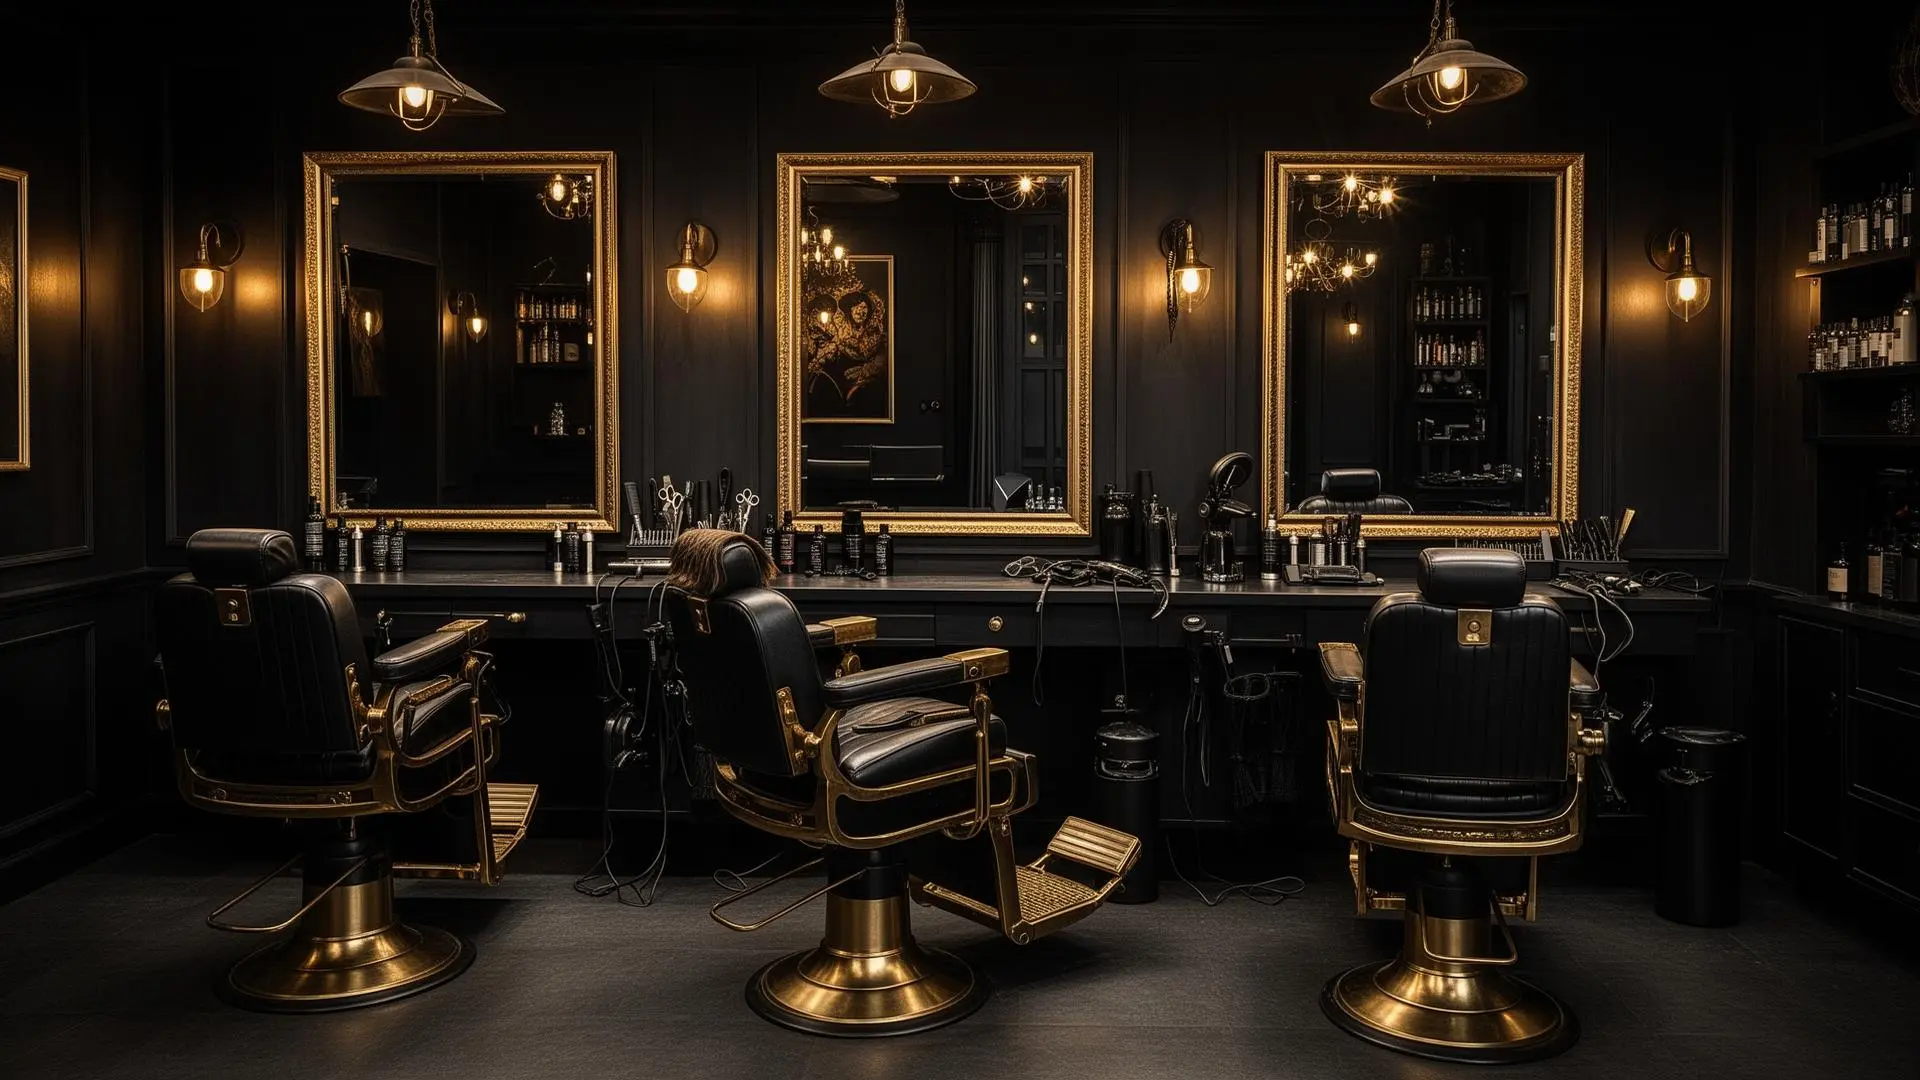
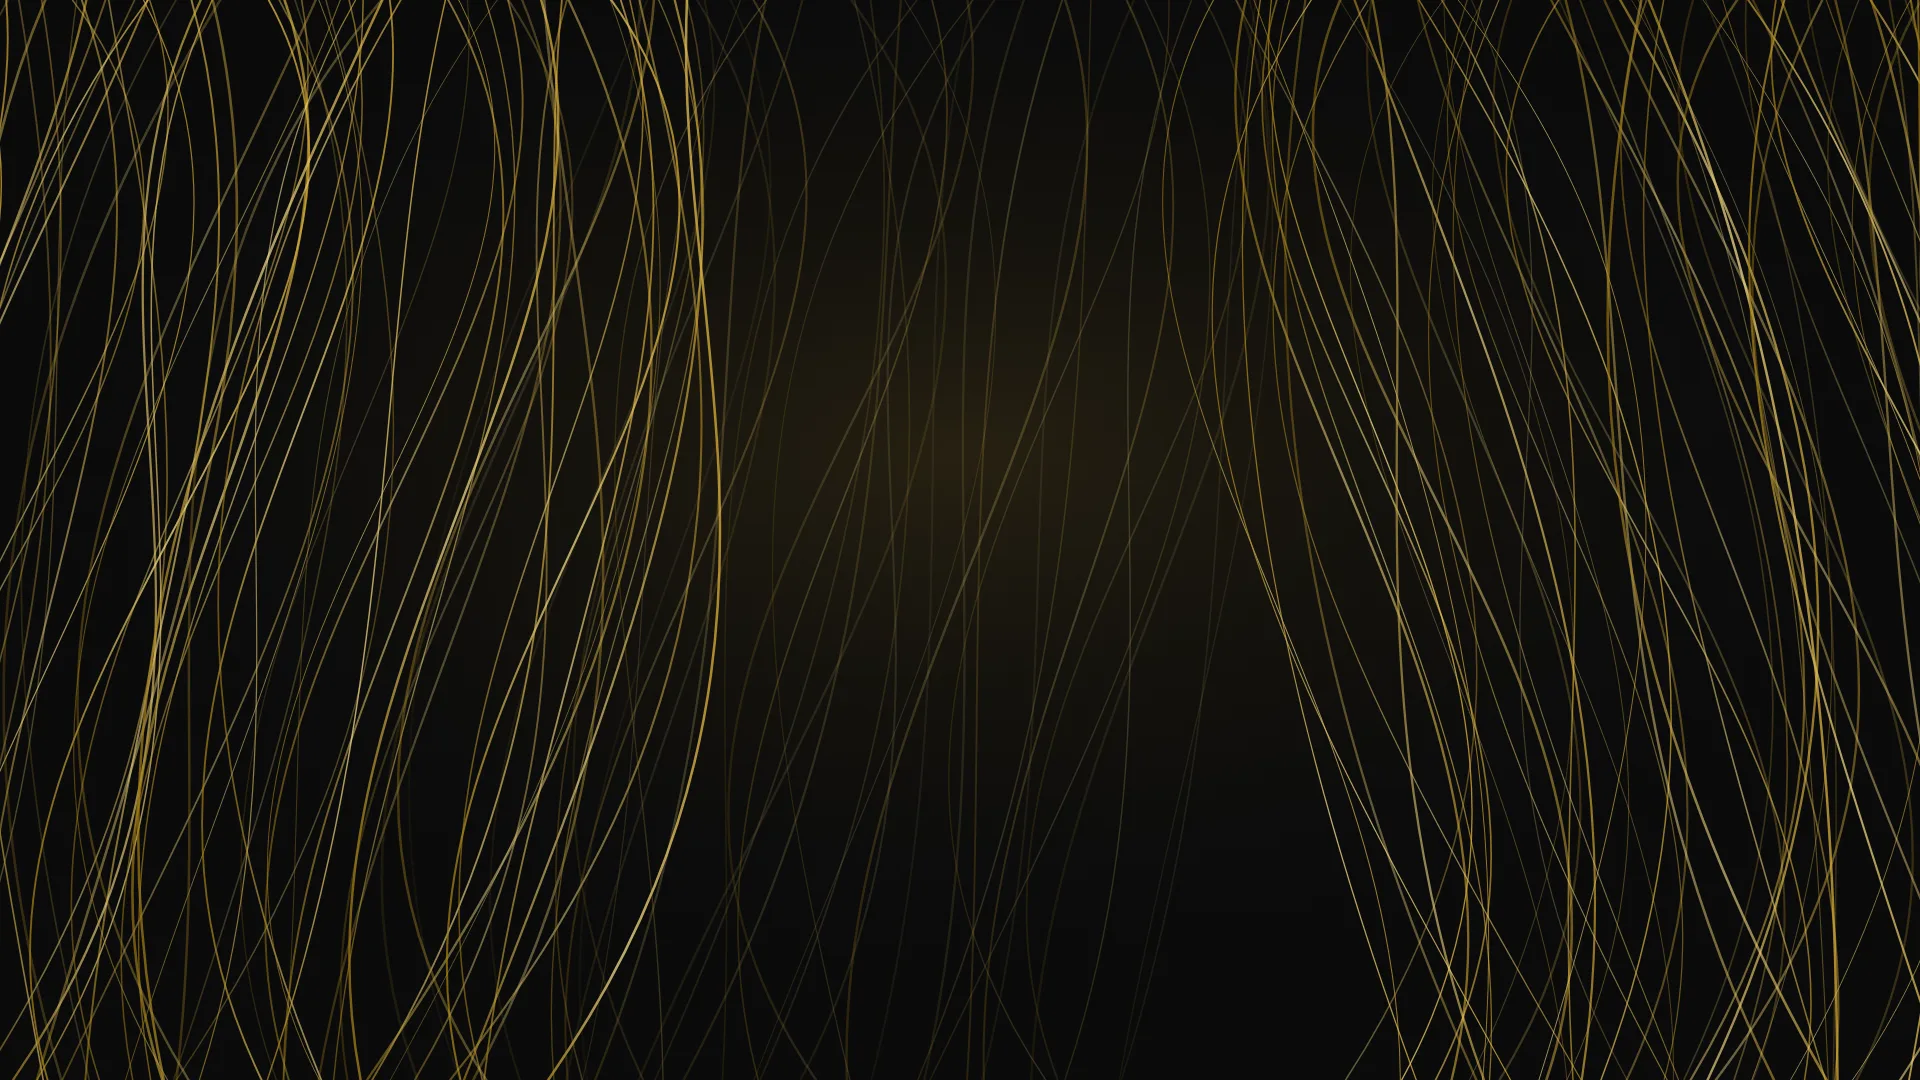
Replace barbershop stock images with gold-strand artwork
New share image (og.jpg, 1200x630) with the logo, headline and domain,
and a matching text-free hero background. The hero overlay is lighter so
the strands stay visible; the background image is now decorative (empty
alt, aria-hidden).

diff --git a/src/components/Hero.tsx b/src/components/Hero.tsx
@@ -27,11 +27,12 @@ const Hero = ({ onBookingOpen }: HeroProps) => {
         <div className="absolute inset-0">
           <img
             src={`${import.meta.env.BASE_URL}assets/hero-bg.webp`}
-            alt="Luksuzni frizerski salon"
+            alt=""
+            aria-hidden="true"
             decoding="async"
-            className="w-full h-full object-cover opacity-40"
+            className="w-full h-full object-cover opacity-80"
           />
-          <div className="absolute inset-0 bg-gradient-to-b from-background/80 via-background/60 to-background" />
+          <div className="absolute inset-0 bg-gradient-to-b from-background/60 via-background/30 to-background" />
         </div>
 
         {/* Sadržaj */}
